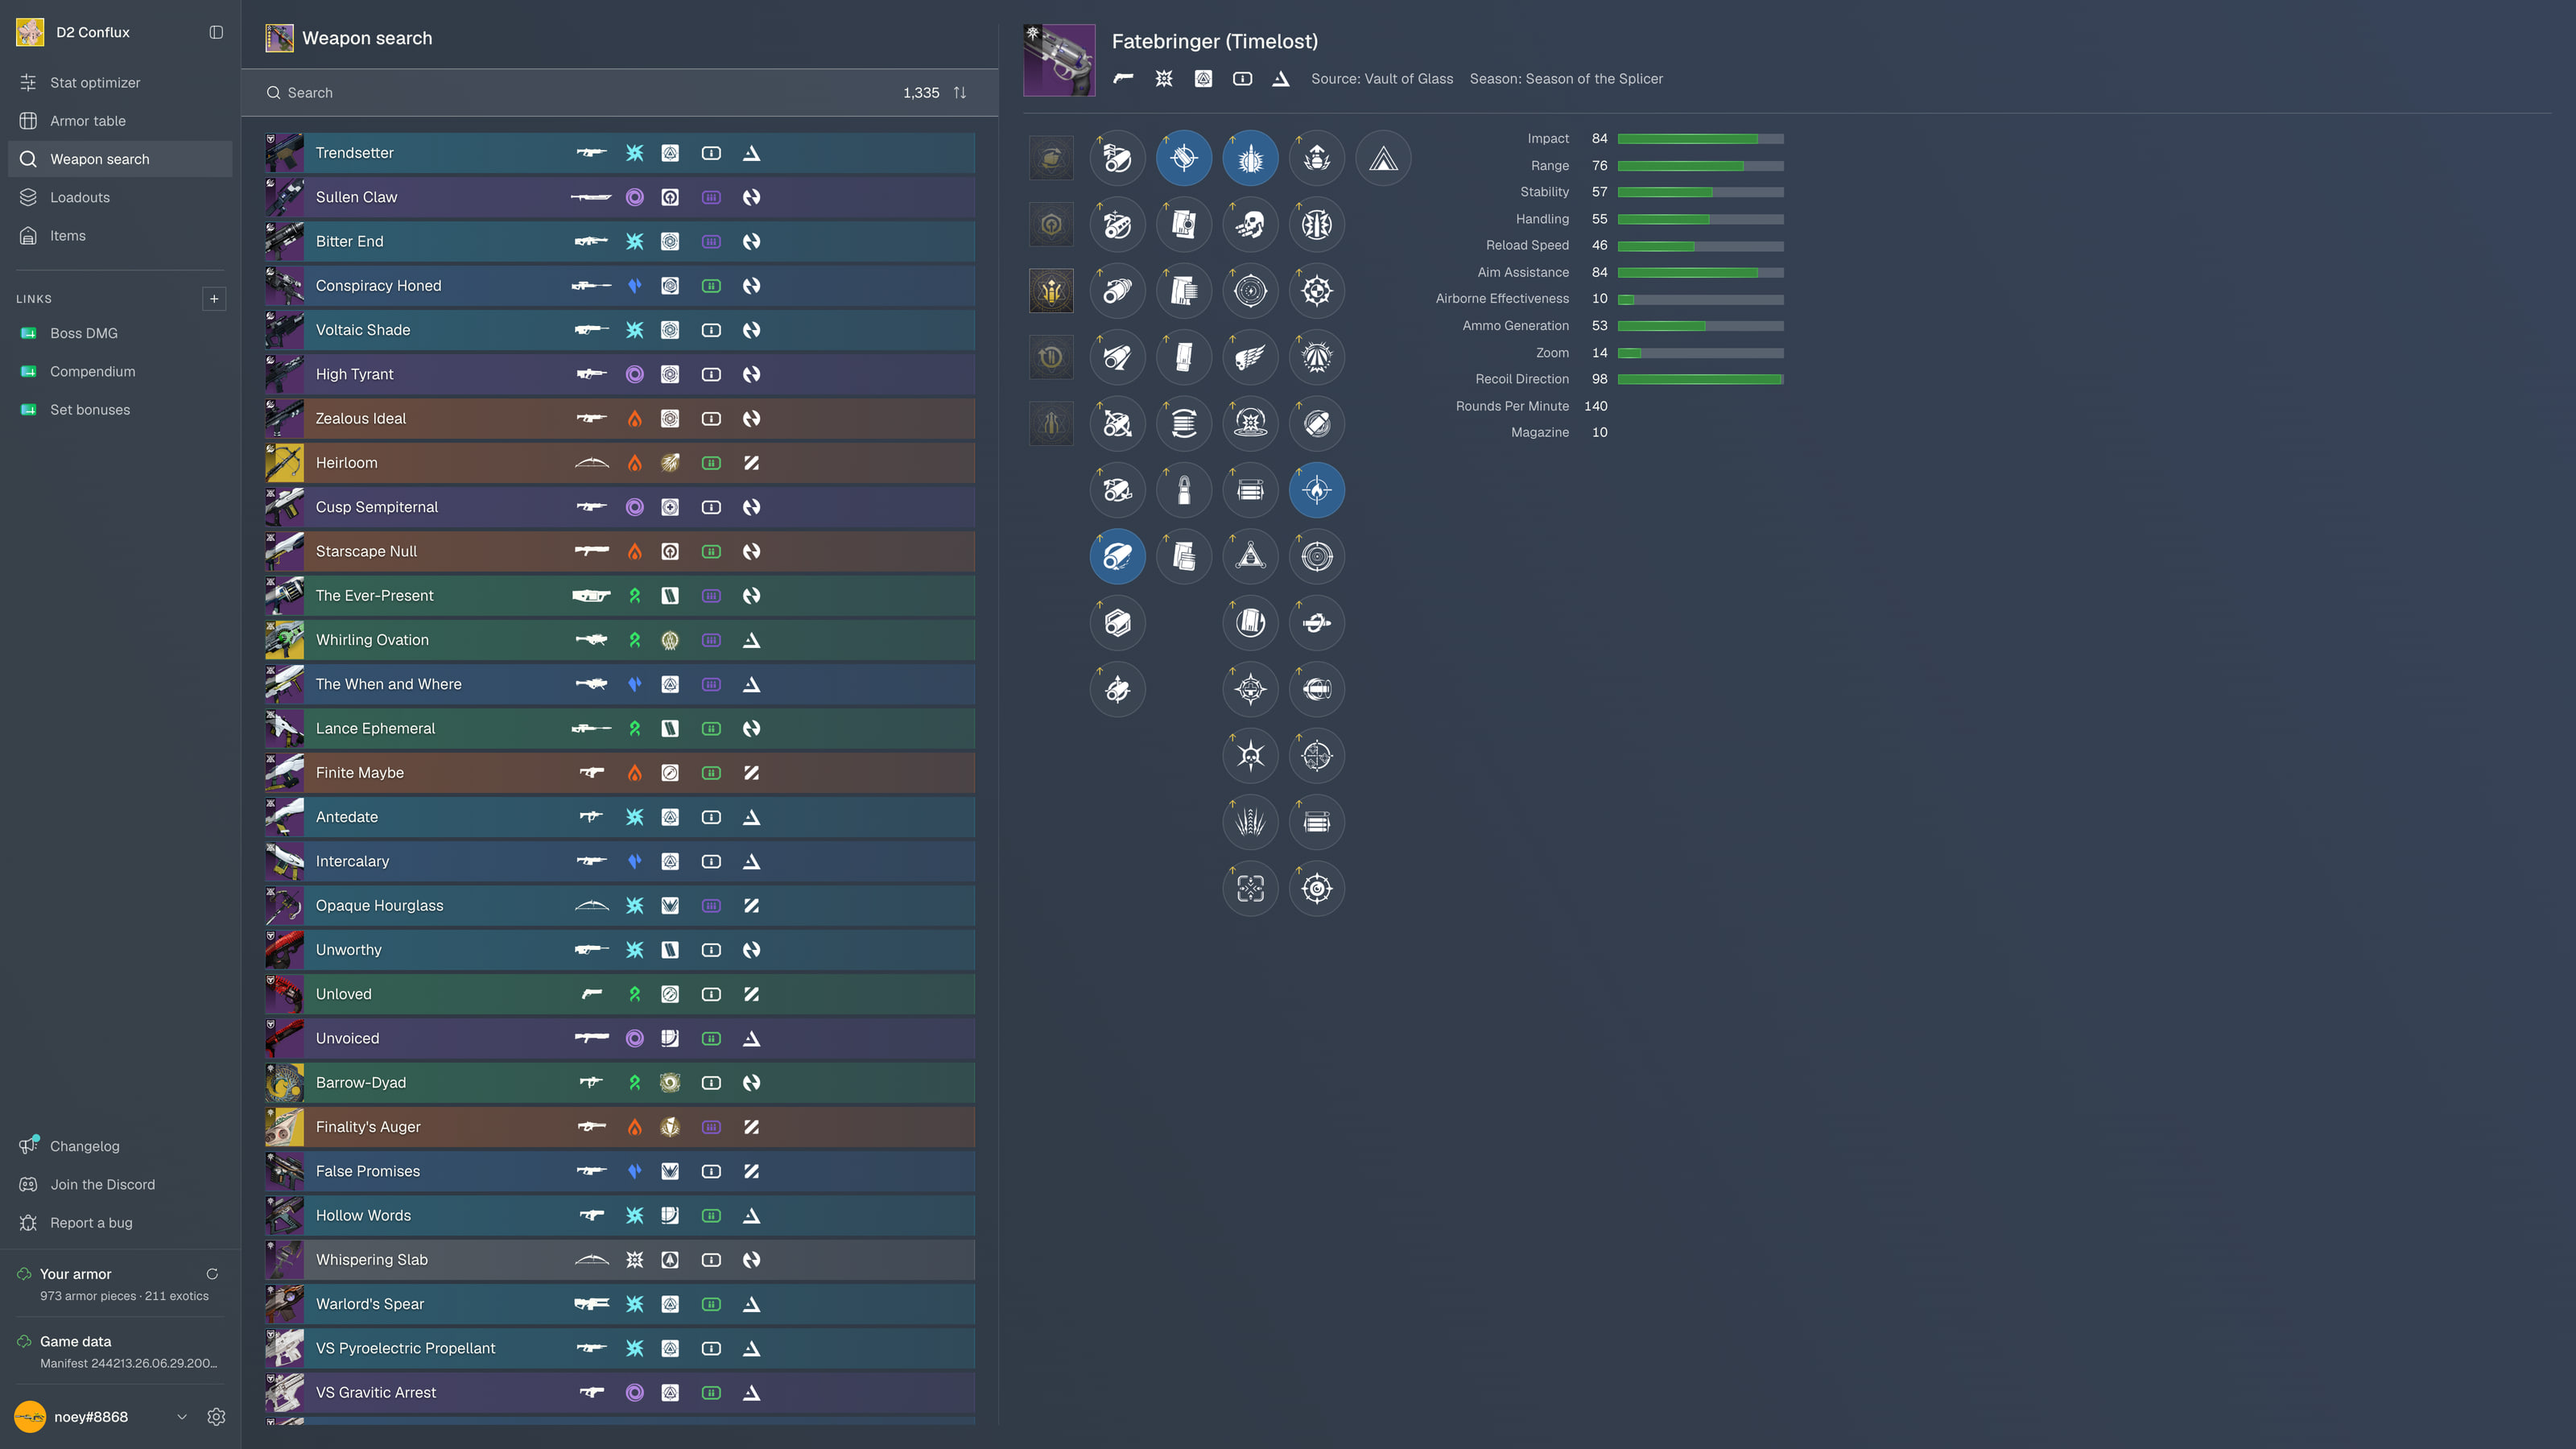
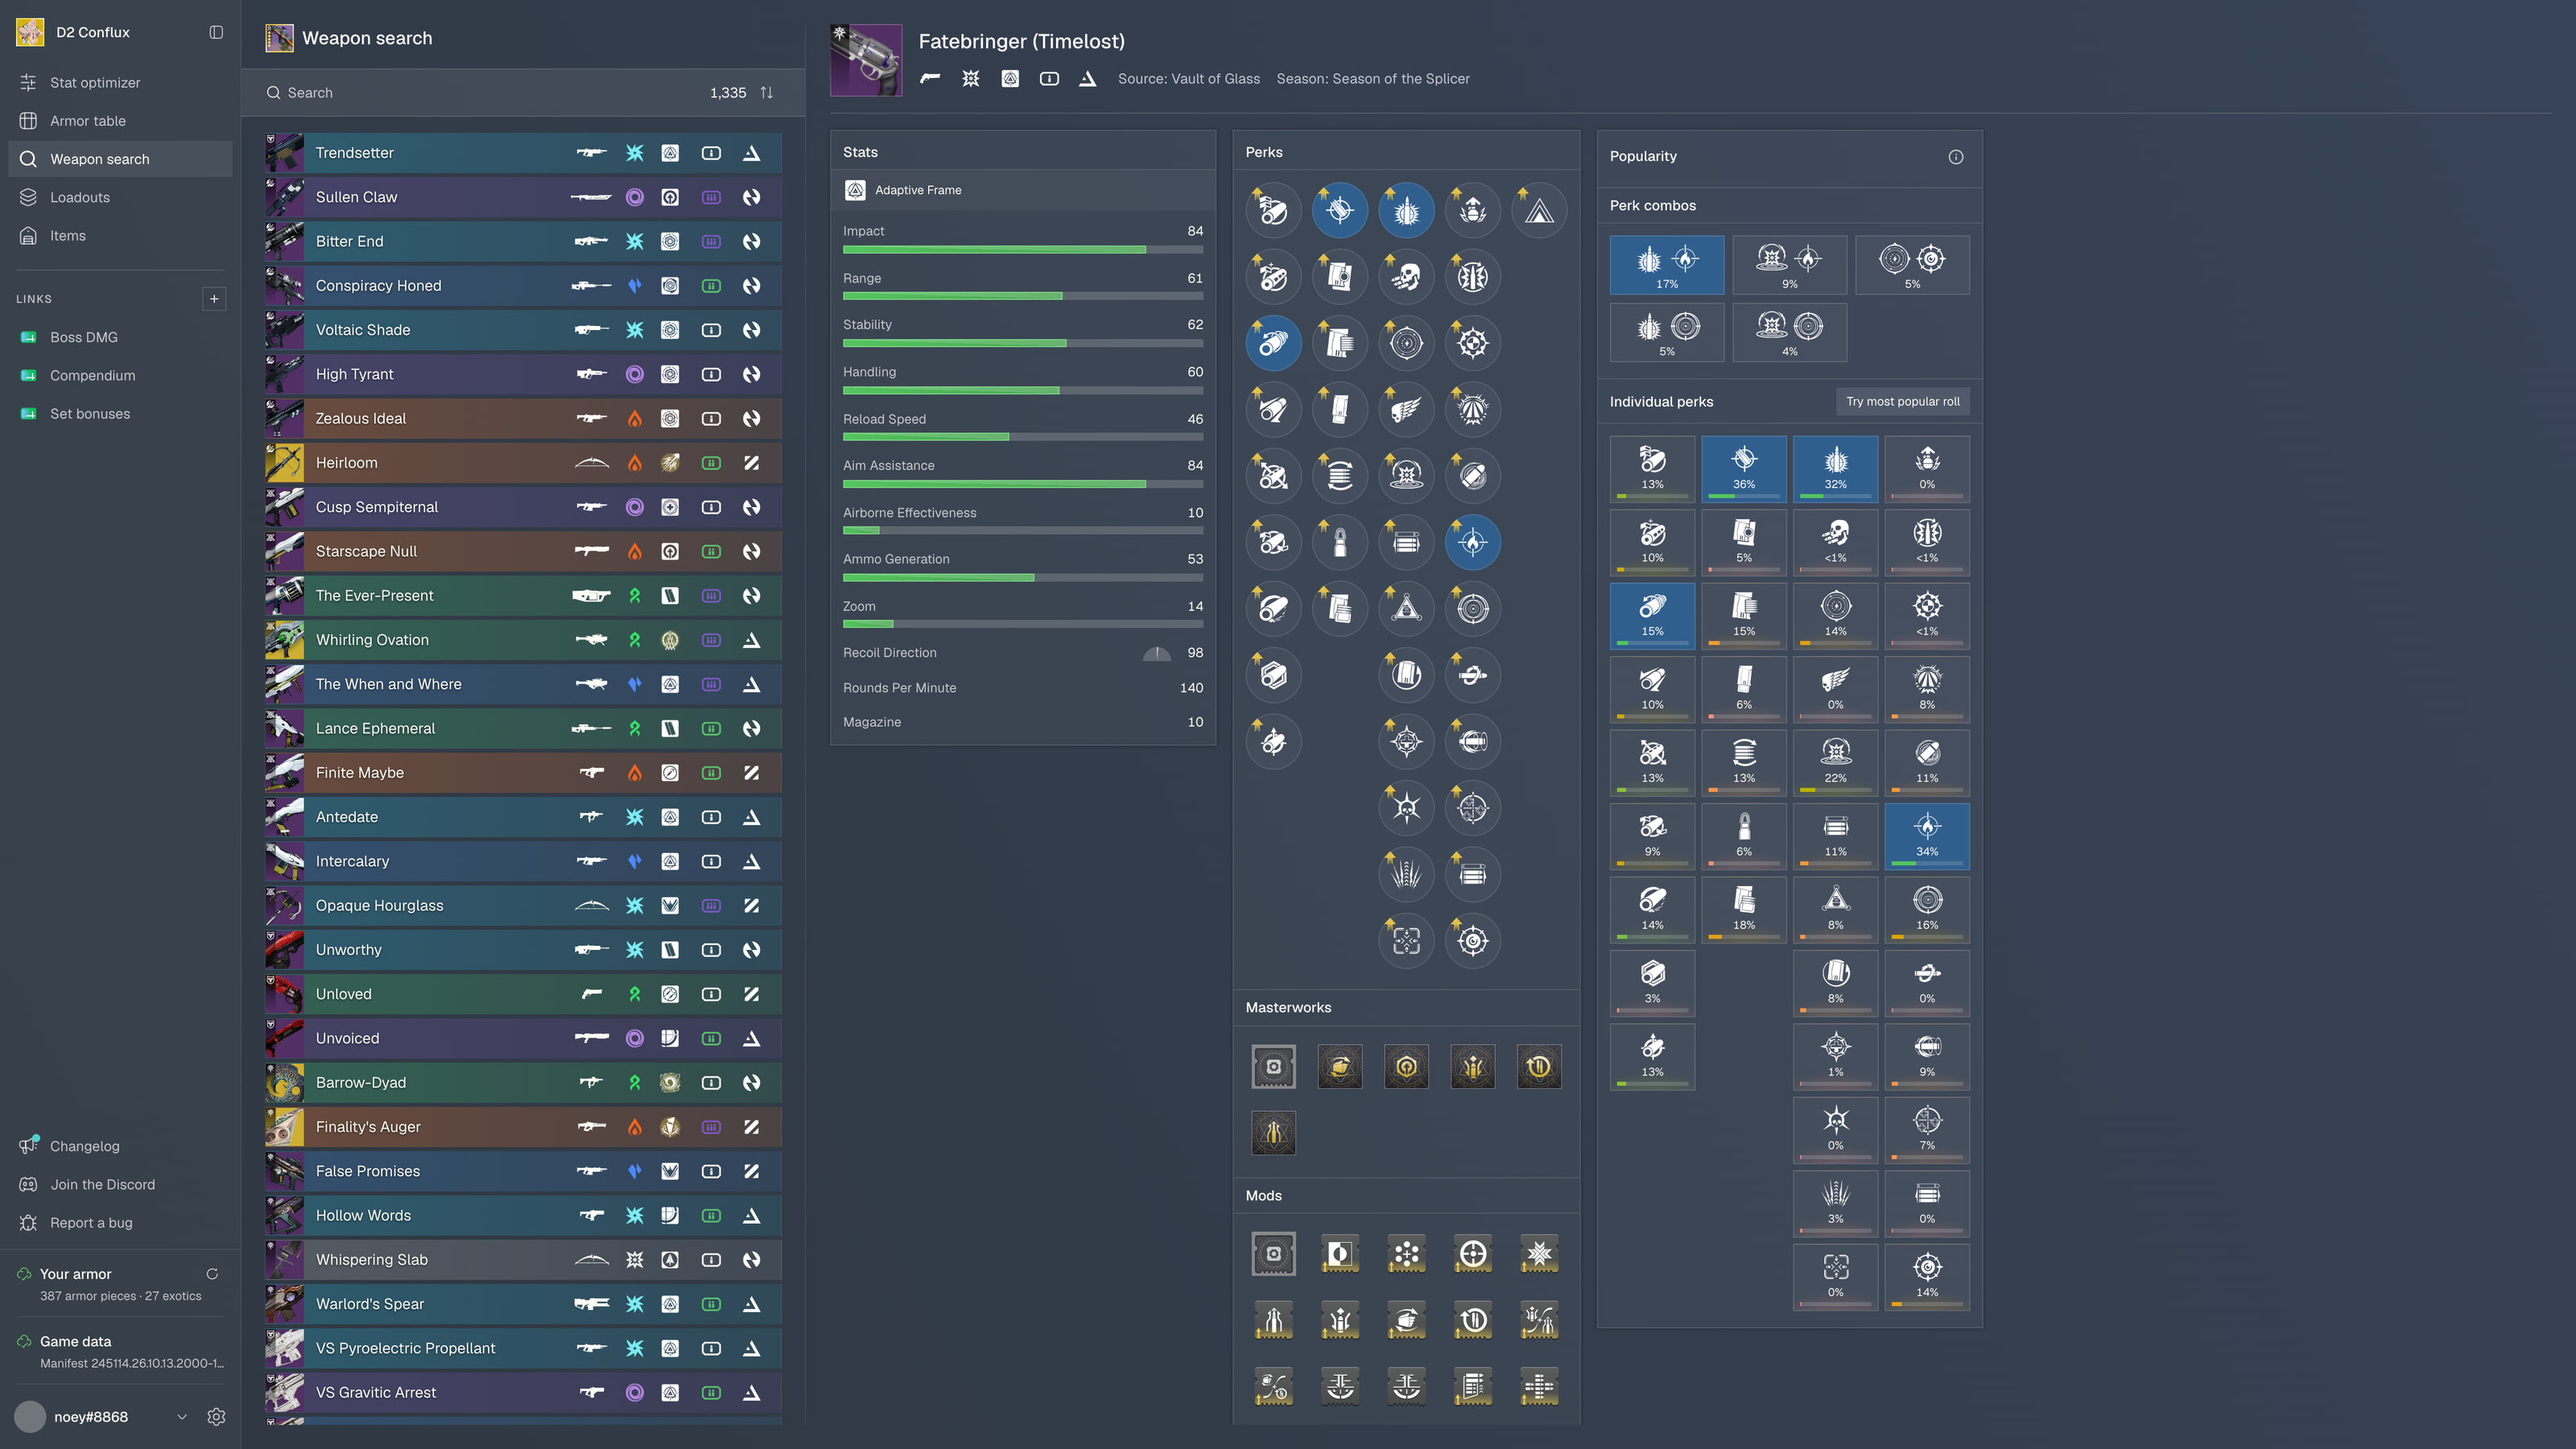
Recapture D2 Conflux's weapon search with the new details cards and a popularity close-up.

diff --git a/src/components/D2Conflux.tsx b/src/components/D2Conflux.tsx
@@ -117,16 +117,33 @@ export default function D2Conflux() {
             <p className="cfx-body">
               Every weapon in the game, filterable by trait, perk combo, barrel and magazine, or
               champion. Click perks to build a roll and the stat bars move with it. Hover any perk for
-              community-tested numbers on what it really does.
+              community-tested numbers on what it really does. The popularity card shows how often
+              players run each perk and combo, and one click tries the most popular roll.
             </p>
           </Intro>
-          <Shot
-            src={`${ASSET}/weapon-search.jpg`}
-            browser={{ path: '/weapons', title: 'Weapons' }}
-            alt="Weapon search: the full catalog of 1,335 weapons as coloured nameplates by element, and Fatebringer (Timelost) open on the right with a roll picked from its perk grid"
-            width={3200}
-            height={1800}
-          />
+          {/*
+            Recaptured Oct 28 2026 after the details pane split into Stats / Perks / Popularity
+            cards: the app's own verify-d2 harness (stubbed sign-in, its full fixture vault), the
+            same 2560 × 1440 window at 2×, with Fatebringer (Timelost) on its most popular roll.
+            The close-up is the Popularity card cut from that capture.
+          */}
+          <div className="cfx-pair">
+            <Shot
+              src={`${ASSET}/weapon-search.jpg`}
+              browser={{ path: '/weapons', title: 'Weapons' }}
+              alt="Weapon search: the full catalog of 1,335 weapons as coloured nameplates by element, and Fatebringer (Timelost) open in three cards: its stats, its perk grid with the most popular roll picked, and how popular each perk and combo is"
+              width={3200}
+              height={1800}
+            />
+            <Shot
+              src={`${ASSET}/weapon-popularity.jpg`}
+              stage="Perk popularity"
+              fade
+              alt="Fatebringer (Timelost)'s Popularity card: Explosive Payload with Firefly is the top combo at 17%, and every perk shows its share, with the most popular roll picked"
+              width={764}
+              height={1528}
+            />
+          </div>
         </Section>
 
         <Section label="Loadouts">
